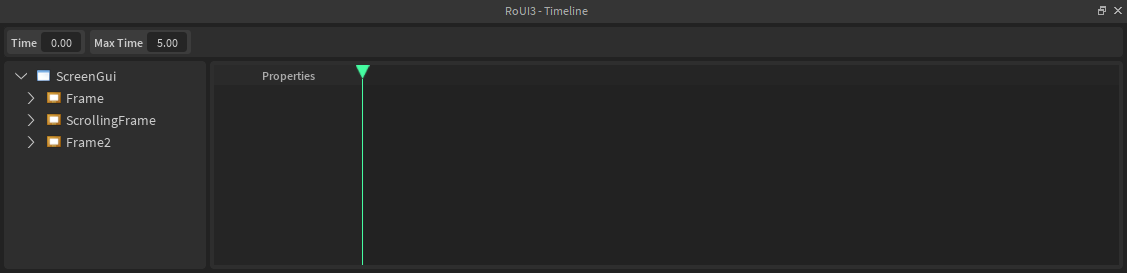
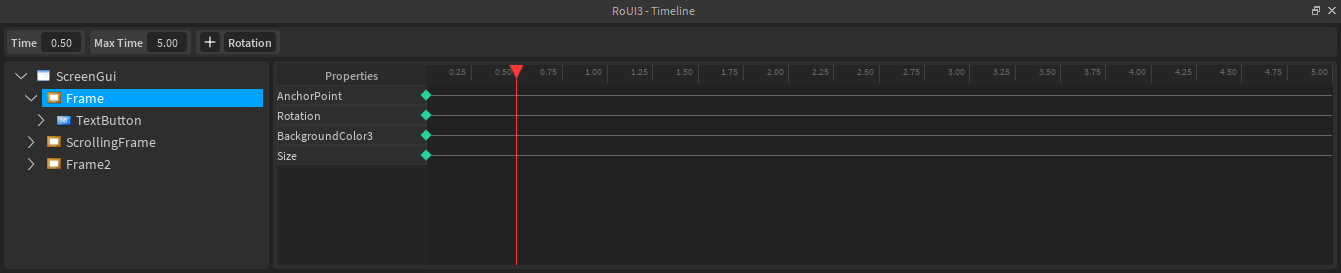
Update assets and README.md
Added logo and updated timeline

diff --git a/README.md b/README.md
@@ -1,3 +1,5 @@
+<img width="30%" image-rendering="crisp-edges" src="./assets/logo-0.5x.png" align="right">
+
 # RoUI3 (In Development)
 
 [![Install](https://img.shields.io/badge/install-RoUI3-inactive?style=flat-square)](#)
@@ -5,9 +7,8 @@
 [![LastCommit](https://img.shields.io/github/last-commit/astrealRBLX/RoUI3?color=green&style=flat-square)](#)
 [![GitHub](https://img.shields.io/github/license/astrealRBLX/RoUI3?style=flat-square)](#)
 
-
 [![Discord](https://img.shields.io/discord/826998257548132373?label=discord&style=flat-square)](https://discord.gg/adX793grNf)
-[![Twitter](https://img.shields.io/twitter/follow/astrealdev?color=blue&style=flat-square)](https://twitter.com/intent/follow?original_referer=https%3A%2F%2Fpublish.twitter.com%2F&ref_src=twsrc%5Etfw%7Ctwcamp%5Ebuttonembed%7Ctwterm%5Efollow%7Ctwgr%5Eastrealdev&region=follow_link&screen_name=astrealdev)
+[![Twitter](https://img.shields.io/twitter/follow/astrealdev?color=blue&style=flat-square)](https://twitter.com/intent/follow?original_referer=https%3A%2F%2Fpublish.twitter.com%2F&ref_src=twsrc%5Etfw%7Ctwcamp%5Ebuttonembed%7Ctwterm%5Efollow%7Ctwgr%5Eastrealdev&region=follow_link&screen_name=astrealdev) 
 
 Create beautiful animations for your Roblox GUIs with RoUI3, a user-friendly and feature-rich Roblox Studio plugin.
 
